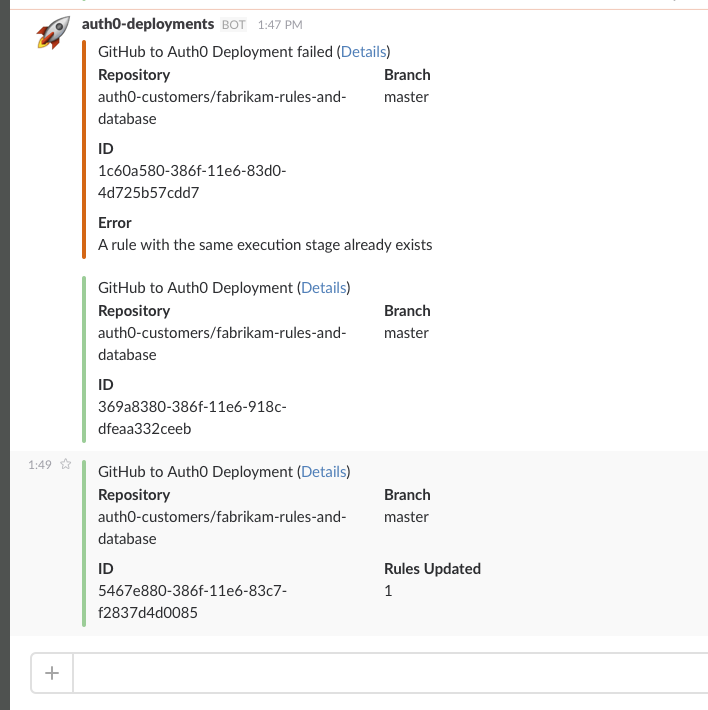
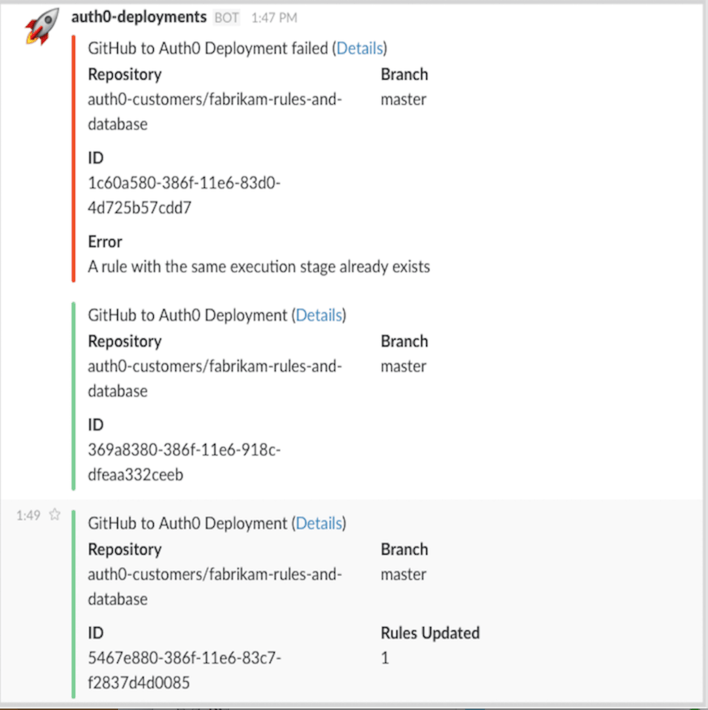
Doc for GitHub Deployments extension (#1697)
* Initial commit

* Initial commit

* Update index text

* Resize image

* Resize image

* Fix typo

* Fix typo #2

* Highlight file deletion

* Edit text

* Minor changes

* Fix typo

* Add note on rules order

* Add note on stage update

diff --git a/articles/extensions/github-deploy.md b/articles/extensions/github-deploy.md
@@ -1,0 +1,122 @@
+# GitHub Deployments
+
+The _GitHub Deployments_ extension allows you to deploy [rules](/rules) and database connections from [GitHub](https://github.com) to Auth0. Now you can configure a GitHub repository, keep all your rules and database connection scripts there, and have them automatically deployed to Auth0 each time you push into your repository.
+
+__NOTE__: This extension is currently available only for the public cloud, as extensions are not yet supported in the [appliance](/appliance).
+
+
+## Configure the extension
+
+To install and configure this extension, click on the __GitHub Deployments__ box in the list of provided extensions on the [Extensions](${uiURL}/#/extensions) page of the [dashboard](${uiURL}). The __Install Extension__ window pops open.
+
+![](/media/articles/extensions/github-deploy/install-extension.png)
+
+At this point you must set the following configuration variables:
+
+- **GITHUB_REPOSITORY**: The repository from which you want to deploy rules and database scripts. It can be either public or private. 
+- **GITHUB_BRANCH**: The branch that the extension will monitor for commits.
+- **GITHUB_TOKEN**: Your [personal access token](https://help.github.com/articles/creating-an-access-token-for-command-line-use/#creating-a-token) for GitHub.
+- **SLACK_INCOMING_WEBHOOK_URL**: The Webhook URL for Slack, used in order to get Slack notifications on successful and failed deployments. Setting this value is optional.
+
+Once you have provided this information, click the *Install* button to finish installing the extension.
+
+Now you have to configure the extension. Navigate to the [Extensions](${uiURL}/#/extensions) page and click on the __Installed Extensions__ tab. 
+
+Click on the row displayed for __GitHub Deployments__ extension. The first time you click on your installed extension you will be asked to authorize it to access your GitHub account. Once you agree you will be navigated to the __GitHub Integration__ configuration page.
+
+![](/media/articles/extensions/github-deploy/configure-extension.png)
+
+The first page is the __Configuration__ and it will explain how you can create a [webhook](https://help.github.com/articles/about-webhooks/) in your GitHub repository pointing to the extension. 
+
+> You can find details on how to configure a webhook in [GitHub documentation](https://developer.github.com/webhooks/creating/).
+
+You are now ready to start deploying.
+
+
+## Start deploying
+
+Once you setup the webhook using the displayed information you are ready to start committing to your repository. With each commit you make in your configured GitHub repository, if changes were made in the `rules` or `database-connection` folders the webhook will call the extension to start the deployment. Note that we always do a full redeploy of all contents to make sure we keep a consistent state.
+
+The __Deploy__ button lets you manually deploy the rules and database connection scripts you already have in your GitHub repository. This is useful if you already have a repository filled with scripts and you want to deploy them once you setup the extension. It can also come in handy in case you accidentally delete some things in Auth0 and you want to redeploy the latest version of your repository again.
+
+::: panel-warning Full redeploy
+The full redeployment means that any rules or database connection scripts that exist in Auth0 but don't exist in your GitHub repository will be __deleted__, because your GitHub repository becomes the single source of truth.
+:::
+
+
+### Deploy database connection scripts
+
+In order to start deploying database connection scripts, first you have to create a directory under `database-connections`. The name of the directory must match __exactly__ the name of your [database connection](${uiURL}/#/connections/database) in Auth0. Of course you can create as many directories as your database connections.
+
+Under the created directory, create one file for every script you want to use. The allowed scripts are:
+
+- `get_user.js`
+- `create.js`
+- `verify.js`
+- `login.js`
+- `change_password.js`
+- `delete.js`
+
+Only the `login.js` script is required in a custom database connection. 
+
+If you enabled the migration feature, you'll also need to provide the `get_user.js` script.
+
+You can find an example in [this GitHub repository](https://github.com/auth0-samples/github-source-control-integration/tree/master/database-connections/my-custom-db).
+
+
+### Deploy rules
+
+In order to deploy a rule, you have to create a JavaScript file under the `rules` directory of your GitHub repository. Each rule must be on its own `.js` file. 
+
+For example, if you create the file `rules/set-country.js`, then the extension will create a rule in Auth0 with the name `set-country`. 
+
+__NOTE__: If you plan to use Source Control integration for an existing account, make sure you rename your rules in Auth0 first to the same name of the files you'll deploy to this directory.
+
+Moreover, you can control the rule order, status (`enabled`/`disabled`) and stage (`login_success`, `login_failure`, `user_registration`), by creating a JSON file next to your JavaScript file, using the same name. So for this example you would create a file named `rules/set-country.json`.
+
+__set-country.js__
+```javascript
+function (user, context, callback) {
+  if (context.request.geoip) {
+    user.country = context.request.geoip.country_name;
+  }
+  callback(null, user, context);
+}
+```
+
+__set-country.json__
+```javascript
+{
+  "enabled": false,
+  "order": 15,
+  "stage": "login_success"
+}
+```
+
+You can find some examples in [this GitHub repository](https://github.com/auth0-samples/github-source-control-integration/tree/master/rules).
+
+#### Setting the order
+
+Having multiple rules with the same order is not allowed, if you do so it will cause a collision. We suggest that you create a JSON file for each rule and assign a value for `order`. If you leave enough space between these values, re-ordering them will be easier and without collisions. For example, if you have three rules, instead of setting the order to `1`, `2`, `3`, you can set it to `10`, `20`, `30`. This way if you want to move the `30` rule before the `20`, you can simply change its `order` value to any value between `11` and `19`.
+
+#### Setting the stage
+
+After you deploy a rule you cannot change it's stage. If you have to do so, then you will have to create a new rule with a new name and the updated stage, and then delete the original rule. Finally, keep in mind that for the `user_registration` and `login_failure` stage only a single rule is allowed.
+
+
+## Track deployments
+
+In order to track all of your deployments, navigate to the [extensions](${uiURL}/#/extensions) page, click on the row displayed for __GitHub Deployments__ extension, and select the __Deployments__ tab. You can see a list of the deployments, both successful and failed.
+
+![](/media/articles/extensions/github-deploy/deployments-overview.png)
+
+If a deployment fails you can look at the details of the deployment and figure out why it failed. 
+
+![](/media/articles/extensions/github-deploy/deployment-log.png)
+
+Details are available also for successful deployments. Finally, if you configured a _Slack Incoming Webhook_ you will be notified on Slack if a deployment succeeded or failed.
+
+![](/media/articles/extensions/github-deploy/slack-messages.png)
+
+That's it, you are done! Happy deploying!
+

diff --git a/articles/extensions/index.md b/articles/extensions/index.md
@@ -19,22 +19,25 @@ Auth0 provides the following pre-defined extensions, and they are available for 
 ![](/media/articles/extensions/auth0-provided-extensions.png)
 
 ### Provided Apps/Jobs:
-- [Auth0 Authorization](/extensions/authorization-extension): manage group memberships for users
-- [Custom Social Connections](/extensions/custom-social-extensions): manage custom social connections in an easy way
-- [Auth0 Management API Webhooks](/extensions/management-api-webhooks): webhooks definition for the Auth0 Management API; goes through the audit logs and calls the appropriate webhook for specific events
-- [Auth0 AD/LDAP Connector Health Monitor](/extensions/adldap-connector): exposes endpoint for AD/LDAP connections monitoring
-- [Auth0 Logs to Application Insight](/extensions/application-insight): exports Auth0 logs to Application Insights
+
+- [Auth0 Authorization](/extensions/authorization-extension): manage group memberships for users.
+- [Custom Social Connections](/extensions/custom-social-extensions): manage custom social connections in an easy way.
+- [Auth0 Management API Webhooks](/extensions/management-api-webhooks): webhooks definition for the Auth0 Management API; goes through the audit logs and calls the appropriate webhook for specific events.
+- [Auth0 AD/LDAP Connector Health Monitor](/extensions/adldap-connector): exposes endpoint for AD/LDAP connections monitoring.
+- [Auth0 Logs to Application Insight](/extensions/application-insight): exports Auth0 logs to Application Insights.
 - [Auth0 Logs to Azure Blob Storage](/extensions/azure-blob-storage): exports Auth0 logs to Azure Blob Storage
-- [Auth0 Authentication API Webhooks](/extensions/authentication-api-webhooks): webhooks definition for the Auth0 Authentication API; goes through the audit logs and calls the appropriate webhook for specific events
-- [Auth0 Logs to Loggly](/extensions/loggly): exports Auth0 logs to Loggly
-- [Auth0 Logs to Papertrail](/extensions/papertrail): exports Auth0 logs to Papertrail
+- [Auth0 Authentication API Webhooks](/extensions/authentication-api-webhooks): webhooks definition for the Auth0 Authentication API; goes through the audit logs and calls the appropriate webhook for specific events.
+- [Auth0 Logs to Loggly](/extensions/loggly): exports Auth0 logs to Loggly.
+- [Auth0 Logs to Papertrail](/extensions/papertrail): exports Auth0 logs to Papertrail.
 - [Users Import / Export](/extensions/user-import-export): import or export users.
-- [Auth0 Logs to Sumo Logic](/extensions/sumologic): export Auth0 logs to Sumo Logic
-- [Auth0 Logs to Splunk](/extensions/splunk): export Auth0 logs to Splunk
-- [Auth0 Logs to Logstash](/extensions/logstash): export Auth0 logs to Logstash
-- [Auth0 Logs to Mixpanel](/extensions/mixpanel): export Auth0 logs to Mixpanel
-- [Real-time Webtask Logs](/extensions/realtime-webtask-logs): allows browser-based access to real-time webtask logs
-- [Auth0 Logs to Logentries](/extensions/logentries): export Auth0 logs to Logentries
+- [Auth0 Logs to Sumo Logic](/extensions/sumologic): export Auth0 logs to Sumo Logic.
+- [Auth0 Logs to Splunk](/extensions/splunk): export Auth0 logs to Splunk.
+- [Auth0 Logs to Logstash](/extensions/logstash): export Auth0 logs to Logstash.
+- [Auth0 Logs to Mixpanel](/extensions/mixpanel): export Auth0 logs to Mixpanel.
+- [Real-time Webtask Logs](/extensions/realtime-webtask-logs): allows browser-based access to real-time webtask logs.
+- [Auth0 Logs to Logentries](/extensions/logentries): export Auth0 logs to Logentries.
+- [GitHub Deployments](/extensions/github-deploy): deploy rules and database connections from GitHub to Auth0.
+
 
 ## Creating Your Own Extension
 
